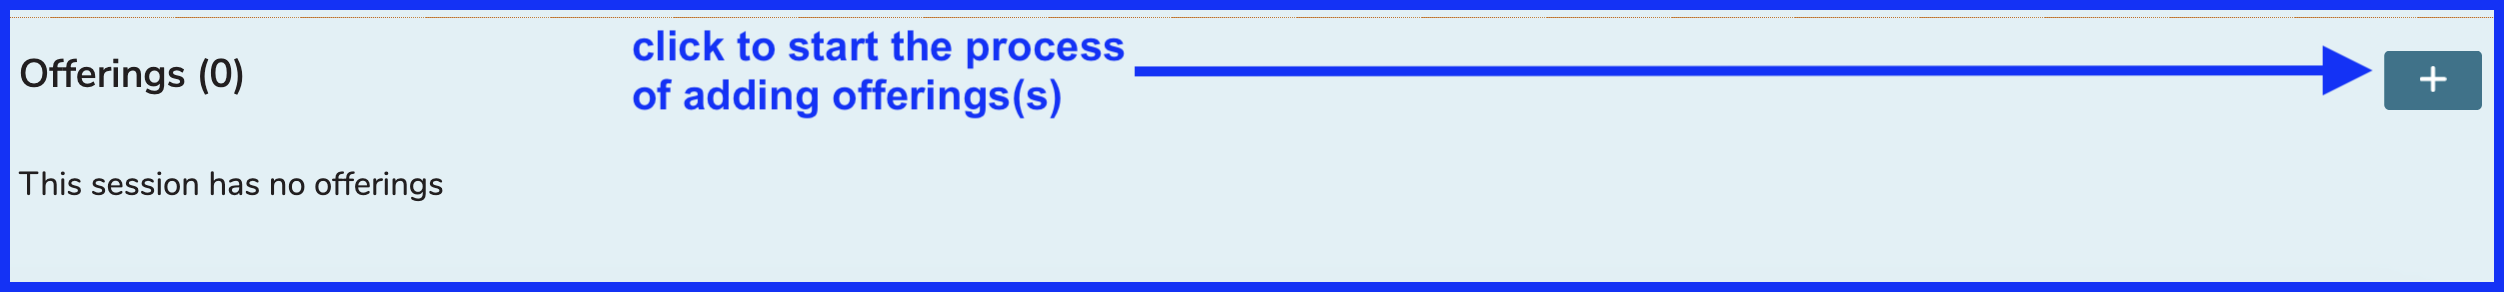
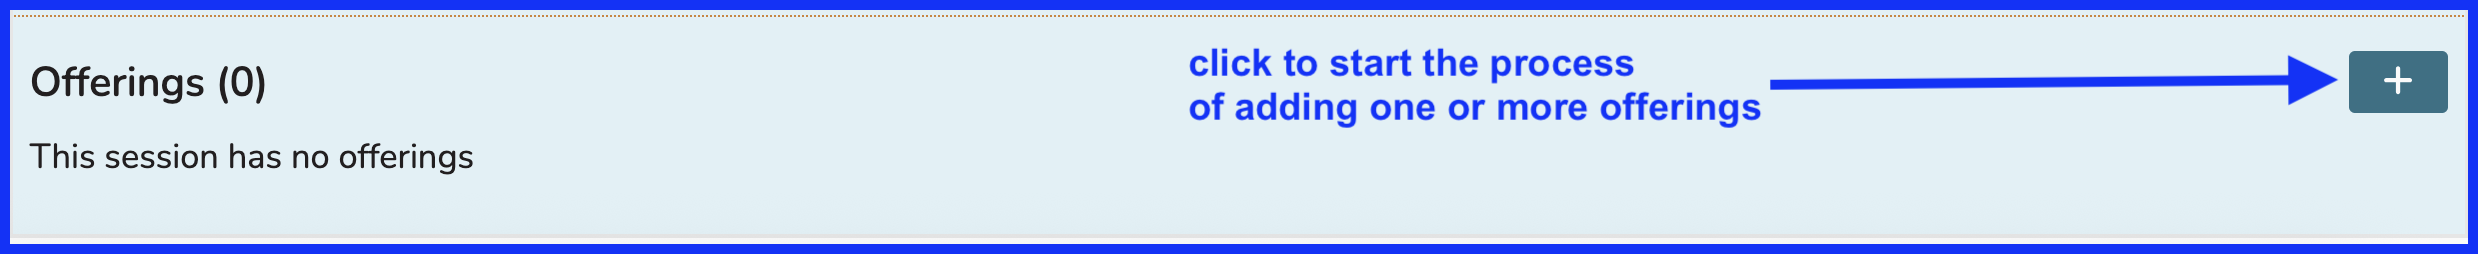
image replaced - updated text

diff --git a/courses-and-sessions/offerings/create-small-group-offerings.md b/courses-and-sessions/offerings/create-small-group-offerings.md
@@ -10,6 +10,10 @@ The first step in this process is to search for and select the Session to which 
 
 ![select session](../../images/create_small_group_offerings/select_session.png)
 
+### Scroll Down
+
+You should scroll down to the bottom of the screen to obtain access to the button shown below. This is to start the process of adding offerings.
+
 ### Start the Process
 
 ![start the process](../../images/create_small_group_offerings/start_the_process.png)
